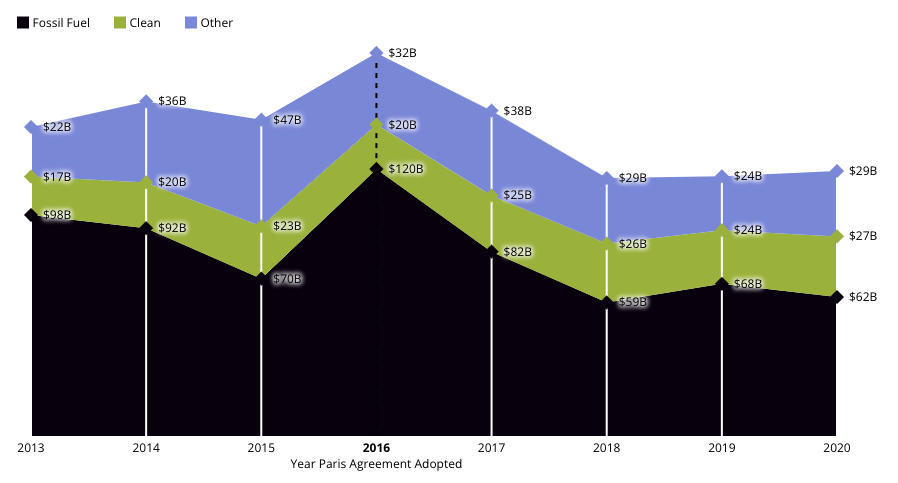
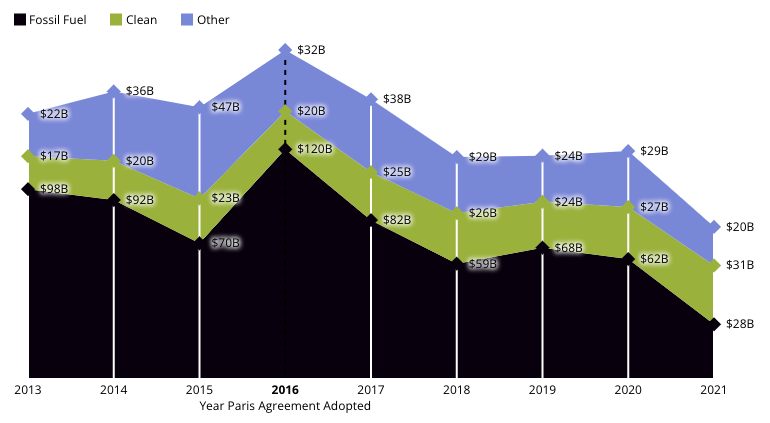
updating homepage images

Changed region(s): [[0.0, 0.0922, 0.9974, 0.9835], [0.0, 0.0307, 0.3117, 0.0615], [0.0312, 0.2459, 0.0935, 0.3073]]

diff --git a/src/Intro/index.js b/src/Intro/index.js
@@ -217,9 +217,9 @@ export default function Intro(props) {
           </p>
 
           <h3 className="chart-title">
-            G20 and MDB public finance for fossil fuels, clean, and other energy, 2013-2020, in USD Billions
+            G20 and MDB public finance for fossil fuels, clean, and other energy, 2013-2021, in USD Billions
           </h3>
-          <img src={publicFinance} alt="Chart of public finance between 2013 and 2020" />
+          <img src={publicFinance} alt="Chart of public finance between 2013 and 2021" />
 
           <p>
             Public finance has an outsized impact on energy systems and often acts as a subsidy. This is because these loans, guarantees, equity, and grants have come with below-market rates, technical capacity, and decreased financial risks that make projects much more likely to go forward. We need the $55 billion a year in public finance for fossil fuels — and more — to be shifted to support a just transition to clean energy instead.
@@ -228,12 +228,12 @@ export default function Intro(props) {
             To get on the pathway to a globally just energy transition in line with 1.5°C, we need wealthy G20 governments to do much more as well, including rapidly phasing out their fossil fuel production at home, ensuring their public finance institutions uphold comprehensive human rights due diligence across for clean energy projects, and providing their fair share of climate finance, loss and damage finance, and debt cancellation. 
           </p>
 
-          <h3 className="chart-title">Top 15 G20 countries for international public finance for fossil fuels, annual average 2018-2020, USD billions</h3>
+          <h3 className="chart-title">Top 15 G20 countries for international public finance for fossil fuels, annual average 2018-2021, USD billions</h3>
 
           <img src={g20} alt="Chart of top 15 G20 public finance for fossil fuels" />
 
           <h3 className="chart-title">
-            Multilateral Development Bank finance for fossil fuels, annual average 2018-2020, USD billions
+            Multilateral Development Bank finance for fossil fuels, annual average 2018-2021, USD billions
           </h3>
           <img src={mdb} alt="Chart of comparison of fossil fuel funding by multilateral development banks" />
 
